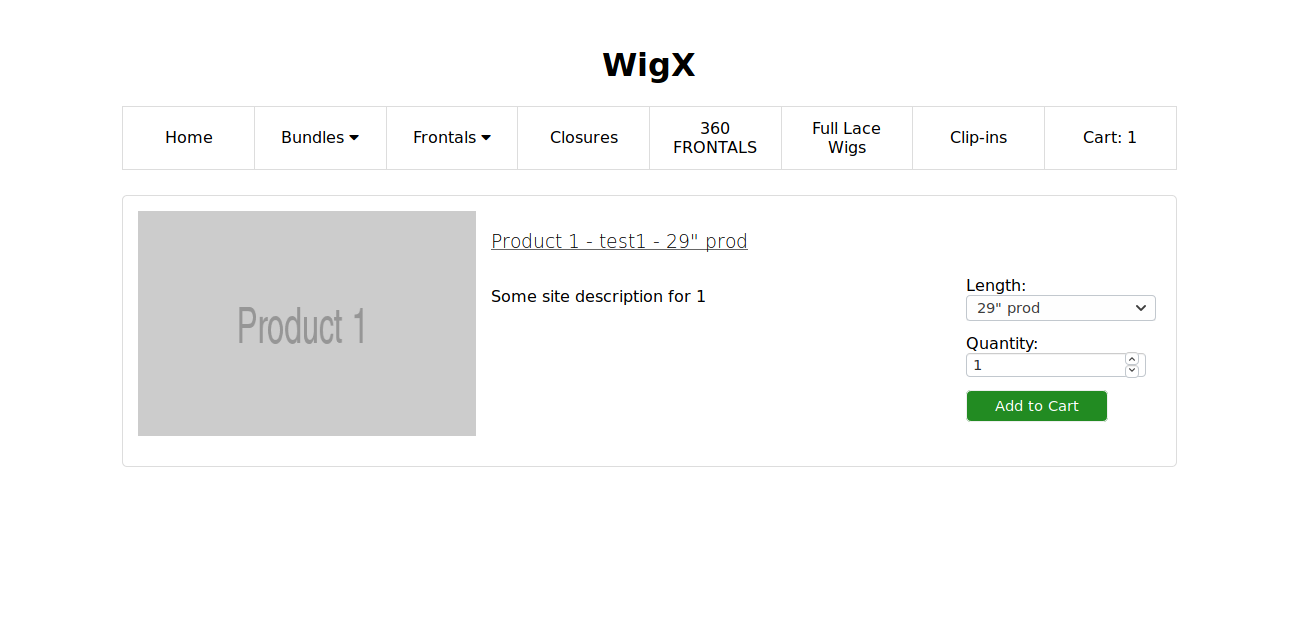
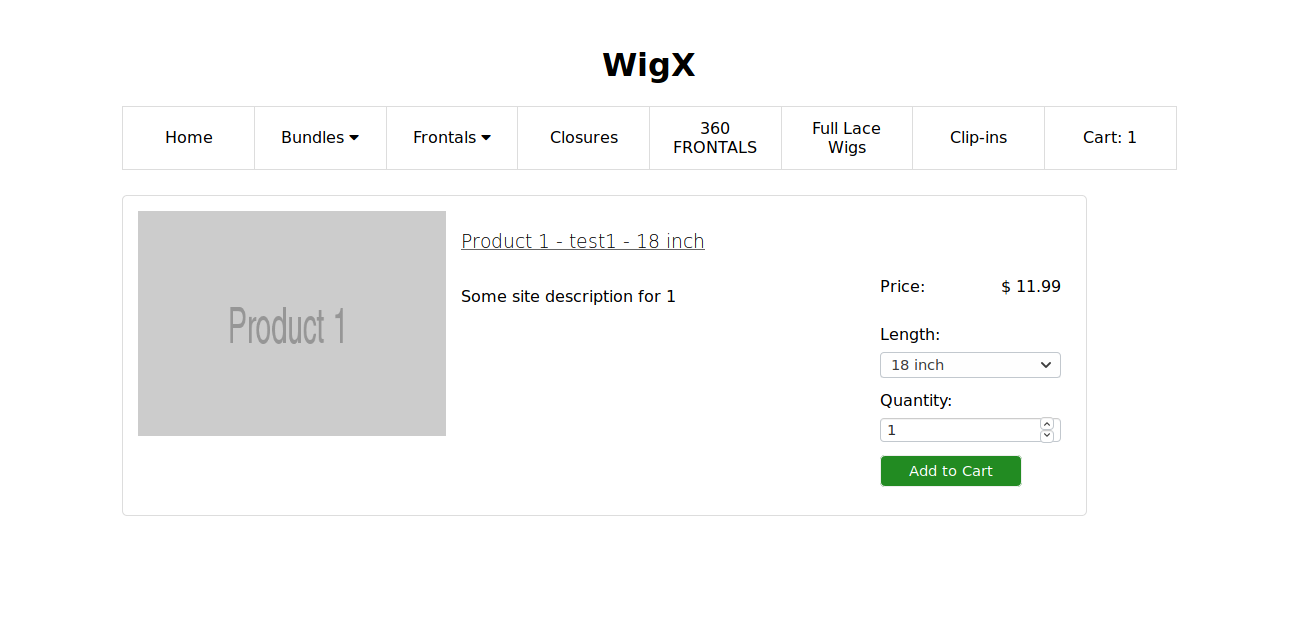
More styling :)

diff --git a/client/src/Product.js b/client/src/Product.js
@@ -109,6 +109,9 @@ class Product extends React.Component {
                             </p>
                             <div className="form-group">
                                 <div className="form-item">
+                                    <p className="product-price">Price: <span class="price-tag">{"$ " + price}</span></p>
+                                </div>
+                                <div className="form-item">
                                     <label for="variants">Length: </label>
                                     <select className="variants" onChange={this.updateListedPrice}>
                                         <option value={default_variant}>{default_variant}</option>
@@ -123,7 +126,7 @@ class Product extends React.Component {
                                 </div>
                                 <div className="form-item">
                                     <label for="variants">Quantity: </label>
-                                    <input className="ranger" onChange={this.updateQuantity} name="quantity" defaultValue="1" type="number" max="5" min="1" step="1" />
+                                    <input className="range" onChange={this.updateQuantity} name="quantity" defaultValue="1" type="number" max="5" min="1" step="1" />
                                 </div>
                                 <div className="form-item">
                                     <AddToCart className="btn-block" product={product} updateCart={this.props.updateCart}>Add to Cart</AddToCart>

diff --git a/client/src/Product.css b/client/src/Product.css
@@ -13,30 +13,32 @@
 }
   
 .product-info {
-float: right;
-padding-left: 15px;
-width: 67%;
+    float: right;
+    padding-left: 15px;
+    width: 67%;
 }
 
 .product-title {
     font-weight: lighter;
+    width: 67%;
     display: block;
     text-decoration: underline;
     text-decoration-color: #666;
 }
 
 .product-body {
-display: inline;
+    display: inline;
 }
 
 .product-desc {
-width: 450px;
+width: 67%;
 float: left;
 }
 
 .form-group {
-    width: 200px;
-    height: 180px;
+    width: 33%;
+    padding: 5px;
+    margin-top: -20px;
     float: right;
 }
 
@@ -49,11 +51,13 @@ float: left;
 .range {
     width: 100%;
     display: block;
+    margin-top: 8px;
 }
 
 .variants {
     width: 100%;
     display: block;
+    margin-top: 8px;
 }
 
 .btn-block {
@@ -61,4 +65,11 @@ float: left;
     width: 100%;
 }
 
-  
+.product-price {
+    display: block;
+    width: 100%;
+}
+
+.price-tag {
+    float: right;
+}
